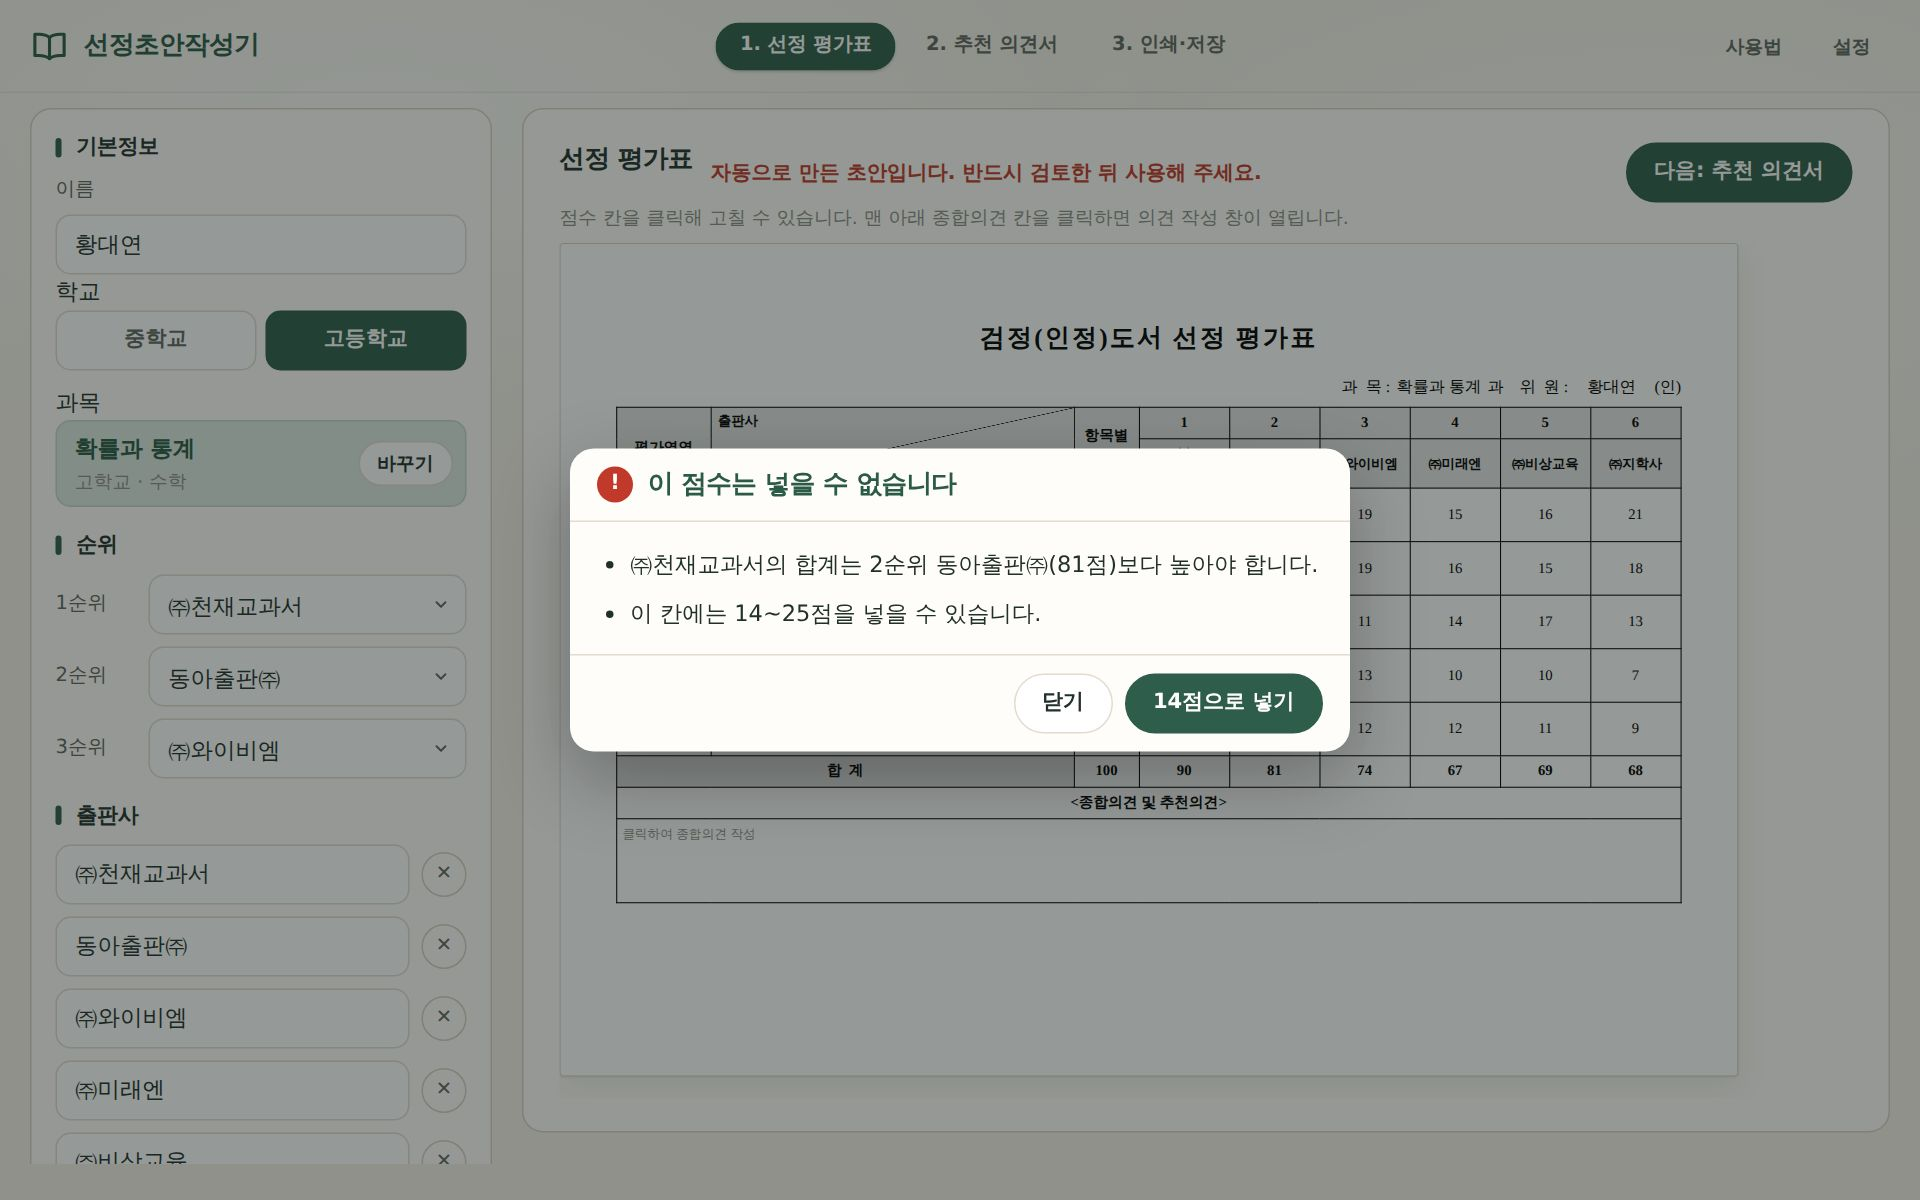
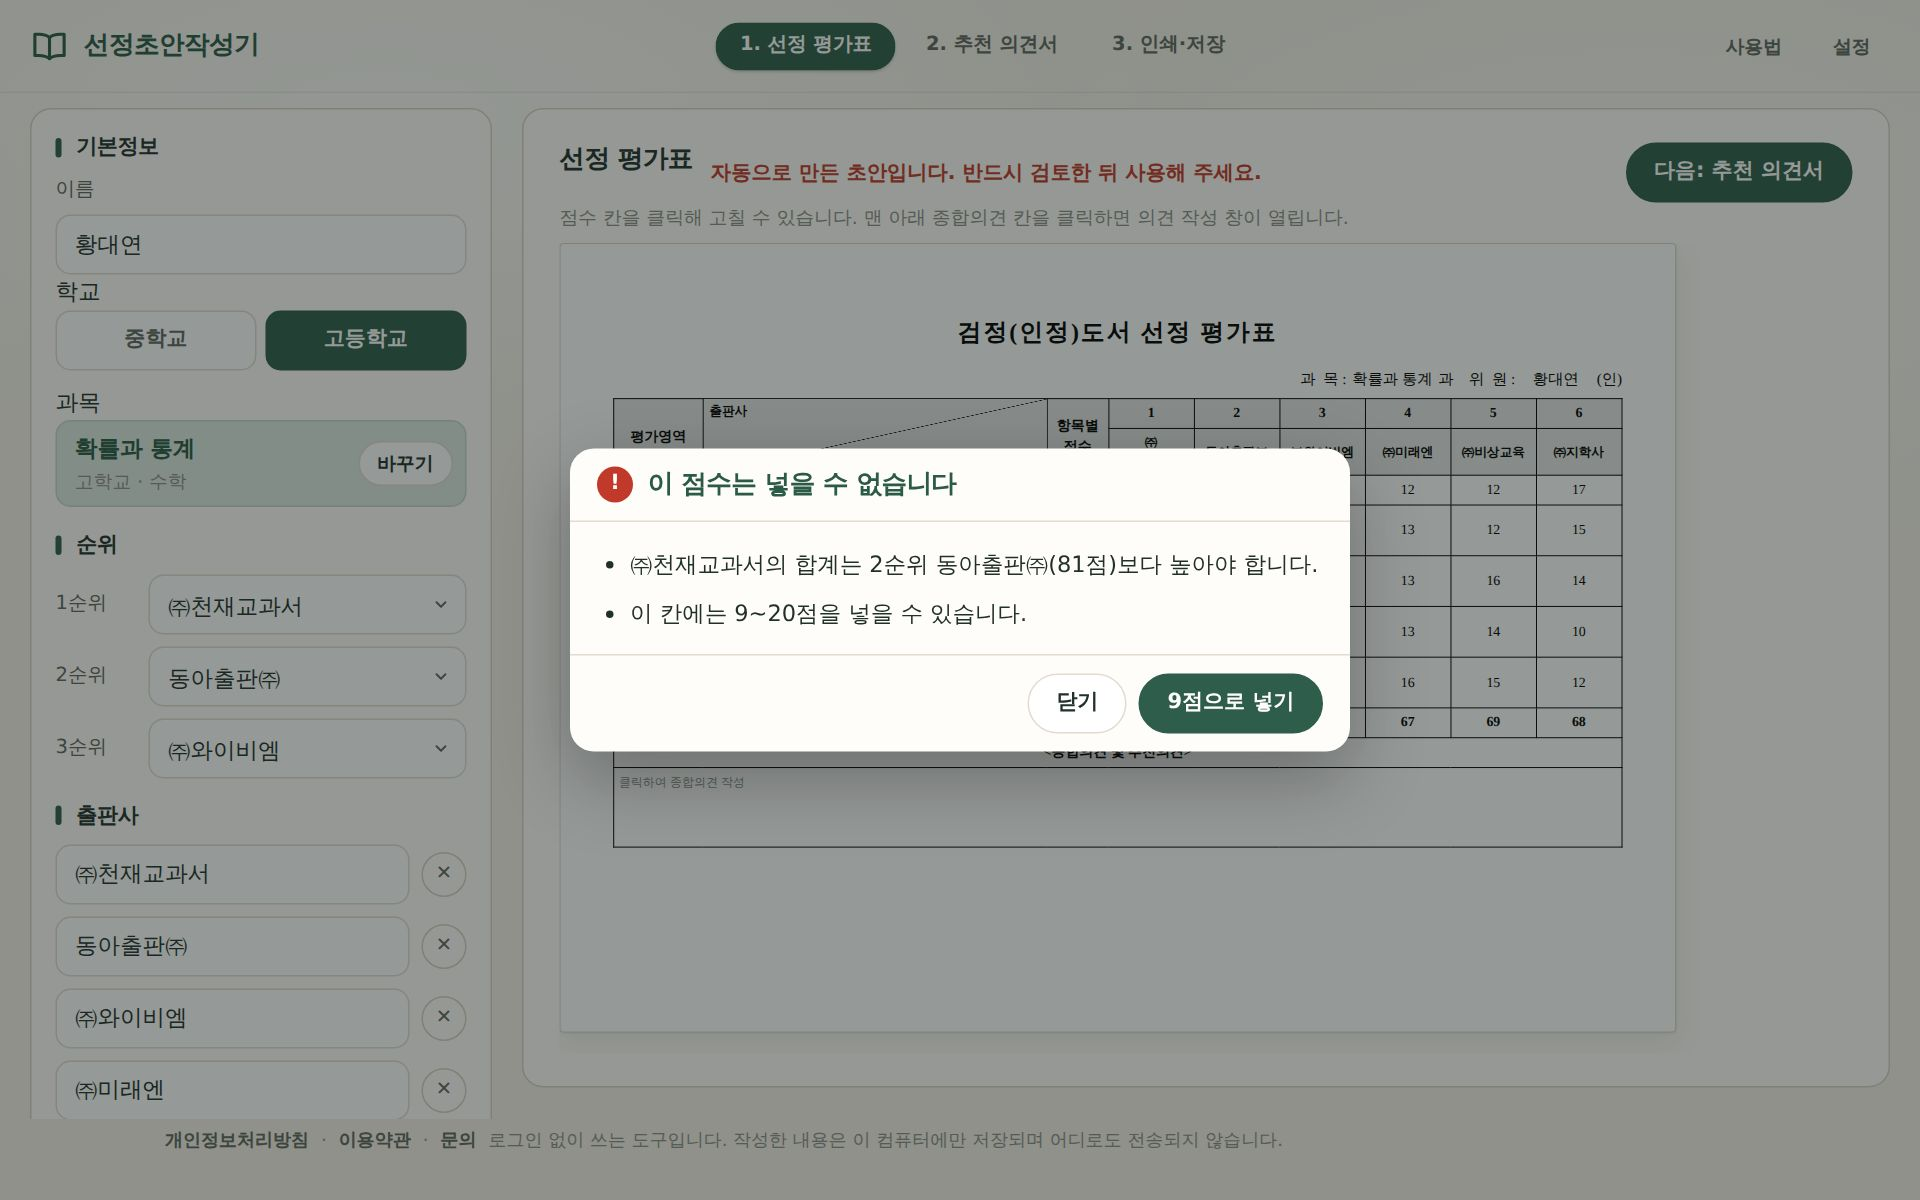
기본 평가기준을 학교 계획안 서식1 예시로 바꿨다 (5항목 × 20점)
교육과정 / 학습내용 선정 / 학습내용 조직 / 교수학습 활동 / 학습평가, 각 20점.
이 컴퓨터의 기본 기준이 예전 기본값 그대로(손대지 않은 상태)면 새 기본값으로 갈아 끼우고,
선생님이 고쳐 둔 기준이나 과목 전용 기준은 그대로 둔다.

- Ctrl+P 처럼 인쇄 단추를 거치지 않은 인쇄에서도 가로 서식이 세로 종이에 잘려 나오지 않게,
  이름 붙인 페이지(@page landscape)를 html.printing 이 아닐 때만 예비로 다시 건다.
  단추로 인쇄할 때는 전처럼 방향 하나만 쓴다 (첫 장 빈 페이지 없음 재확인).
- 사용법 캐러셀 화면 사진 14장을 새 기준으로 다시 찍었다.

검증: 새 설치·예전 기본값·고친 기준·과목 전용 기준 각 경우의 이전 처리, 설정 화면 표시,
평가기준 변경 반영·점수 가드·hwpx·분리 인쇄·PDF 집계 회귀 모두 통과.

Claude-Session: https://claude.ai/code/session_01RCs1Brw9A4HvY1UdBXHbwC

diff --git a/src/seed.ts b/src/seed.ts
@@ -75,12 +75,25 @@ export function seedSubjects(): Subject[] {
   return out
 }
 
+/** 기본 평가기준 (학교 선정 계획안의 서식1 예시 그대로, 5항목 × 20점) */
 export const DEFAULT_CRITERIA: Omit<Criterion, 'id' | 'subjectId'>[] = [
-  { area: '교육과정 적합성', text: '2022 개정 교육과정 성취기준 반영 및 내용의 타당성', points: 25, locked: false, order: 1 },
-  { area: '내용의 선정·조직', text: '학생 수준·흥미에 맞는 내용 선정과 체계적 구성', points: 25, locked: false, order: 2 },
-  { area: '교수·학습 및 평가', text: '탐구·활동 과제, 자기주도학습 및 평가 자료의 적절성', points: 20, locked: false, order: 3 },
-  { area: '표현·표기 및 편집', text: '문장·용어의 정확성, 삽화·디자인·가독성', points: 15, locked: false, order: 4 },
-  { area: '가격 및 재정 (필수)', text: '정가의 적정성, 전년 대비 증감 및 동일 과목 타 도서와의 비교', points: 15, locked: true, order: 5 },
+  { area: '교육과정', text: '학교 교육과정의 성격 및 목표에 부합하는가?', points: 20, locked: false, order: 1 },
+  { area: '학습내용 선정', text: '학습자의 학년 수준에 맞는 학습 내용과 활동을 다루고 있는가?', points: 20, locked: false, order: 2 },
+  { area: '학습내용 조직', text: '학습 수준별로 학습이 가능한 자료를 제시하고 있는가?', points: 20, locked: false, order: 3 },
+  { area: '교수학습 활동', text: '학습 주제에 적절하며, 실현 가능한 학습활동 및 방법을 제시하고 있는가?', points: 20, locked: false, order: 4 },
+  { area: '학습평가', text: '학생 스스로 점검할 수 있는 평가 방법을 안내하고 있는가?', points: 20, locked: false, order: 5 },
+]
+
+/**
+ * 예전 기본 평가기준. 이 컴퓨터의 기본 기준이 이것과 똑같으면(선생님이 손대지 않았으면)
+ * 새 기본값으로 바꿔 준다 (store/migrate.ts). 손댄 기준은 그대로 둔다.
+ */
+export const LEGACY_DEFAULT_CRITERIA: Pick<Criterion, 'area' | 'text' | 'points'>[] = [
+  { area: '교육과정 적합성', text: '2022 개정 교육과정 성취기준 반영 및 내용의 타당성', points: 25 },
+  { area: '내용의 선정·조직', text: '학생 수준·흥미에 맞는 내용 선정과 체계적 구성', points: 25 },
+  { area: '교수·학습 및 평가', text: '탐구·활동 과제, 자기주도학습 및 평가 자료의 적절성', points: 20 },
+  { area: '표현·표기 및 편집', text: '문장·용어의 정확성, 삽화·디자인·가독성', points: 15 },
+  { area: '가격 및 재정 (필수)', text: '정가의 적정성, 전년 대비 증감 및 동일 과목 타 도서와의 비교', points: 15 },
 ]
 
 export function seedCriteria(): Criterion[] {

diff --git a/src/store/migrate.ts b/src/store/migrate.ts
@@ -1,5 +1,5 @@
 import type { Criterion, Evaluation, Master, Settings, Summary } from '../types'
-import { DATA_VERSION, DEFAULT_SETTINGS, seedMaster } from '../seed'
+import { DATA_VERSION, DEFAULT_SETTINGS, LEGACY_DEFAULT_CRITERIA, seedCriteria, seedMaster } from '../seed'
 import { criteriaFor, publishersFor } from '../lib/scoring'
 
 /** 예전 구조(접속 코드·위원 명단·과목 마감 등)의 마스터를 현재 구조로 정리한다 */
@@ -21,10 +21,26 @@ export function migrateMaster(raw: unknown): Master {
           return rest
         }),
     publishers: stale ? [] : m.publishers || [],
-    criteria: m.criteria && m.criteria.length ? m.criteria : base.criteria,
+    criteria: refreshDefaultCriteria(m.criteria && m.criteria.length ? m.criteria : base.criteria),
     opinionOptions: m.opinionOptions && m.opinionOptions.length ? m.opinionOptions : base.opinionOptions,
     updatedAt: m.updatedAt || base.updatedAt,
   }
+}
+
+/**
+ * 기본 평가기준이 예전 기본값 그대로(손대지 않은 상태)면 새 기본값으로 바꾼다.
+ * 선생님이 고쳐 둔 기준이나 과목 전용 기준은 건드리지 않는다.
+ */
+function refreshDefaultCriteria(list: Criterion[]): Criterion[] {
+  const defaults = list.filter((c) => c.subjectId === null).sort((a, b) => a.order - b.order)
+  const untouched =
+    defaults.length === LEGACY_DEFAULT_CRITERIA.length &&
+    defaults.every((c, i) => {
+      const l = LEGACY_DEFAULT_CRITERIA[i]
+      return c.area === l.area && c.text === l.text && c.points === l.points
+    })
+  if (!untouched) return list
+  return [...list.filter((c) => c.subjectId !== null), ...seedCriteria()]
 }
 
 /**

diff --git a/src/styles.css b/src/styles.css
@@ -684,8 +684,12 @@ label.field.rank-row { flex-direction: row; align-items: center; gap: 10px; marg
 
 @media print {
   /* 기본은 세로(서식2·3). 서식1(가로)은 인쇄 단추가 그때만 @page 를 가로로 바꿔 건다 (src/lib/print.ts).
-     예전처럼 이름 붙인 페이지(@page landscape)로 방향을 섞으면 첫 장에 빈 세로 페이지가 끼는 브라우저가 있다 */
+     이름 붙인 페이지(@page landscape)로 방향을 섞으면 첫 장에 빈 세로 페이지가 끼는 브라우저가 있어
+     단추로 인쇄할 때(html.printing)는 쓰지 않고, Ctrl+P 처럼 단추를 거치지 않은 인쇄에서만
+     가로 서식이 세로 종이에 잘려 나오지 않도록 예비로 둔다 */
   @page { size: A4 portrait; margin: 12mm; }
+  @page landscape { size: A4 landscape; margin: 10mm; }
+  html:not(.printing) .form-sheet.landscape { page: landscape; }
   /* 화면용 min-height:100vh 가 남아 있으면 서식 뒤에 빈 장이 한 쪽 더 나온다 */
   html, body { background: #fff !important; margin: 0; padding: 0; height: auto; min-height: 0 !important; }
   #root, .app { min-height: 0 !important; }
